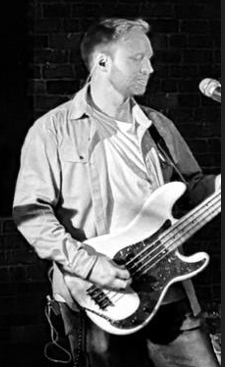
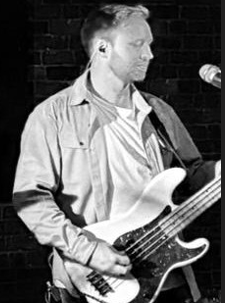
Add band progile section to homepage (WIP)

diff --git a/index.html b/index.html
@@ -138,39 +138,47 @@
         </section>
         
         <!-- Band member profile section -->
-       
+
         <section id="band-profile" class="container-fluid">
-            <div class="row">
-                <div class="col-12">
-                    <h2>The band</h2>
+            <div class="col-12">
+                <h2>The band</h2>
+            </div>
+            <div class="row g-4 bg-black px-3 py-3">
+
+                <!-- Chris -->
+                <div class="card" style="width: 20rem;">
+                    <img src="./assets/images/Chris.png" alt="Chris singing on stage" class="img-fluid mb-1 mt-3">
+                    <div class="card-body">
+                        <h3>Chris Morley</h3>
+                        <p>Vocals & Guitar</p>
+                    </div>
                 </div>
-                <div class="col-6">
-                    <img src="./assets/images/Chris.png" alt="Chris singing on stage">
+                    
+                <!-- Gary -->
+                <div class="card" style="width: 18rem;">
+                    <img src="./assets/images/Gary.png" alt="Gary playing guitar on stage" class="img-fluid mb-1 mt-3">
+                    <div class="card-body">
+                        <h3>Gary Stone</h3>
+                        <p>Vocals & Guitar</p>
+                    </div>
                 </div>
-                <div class="col-6">
-                    <h3>Chris Morley</h3>
-                    <p>Vocals / Guitar</p>
+
+                <!-- Callum -->
+                <div class="card" style="width: 18rem;">
+                    <img src="./assets/images/Callum-bw.png" alt="Callum playing bass" class="img-fluid mb-1 mt-3">
+                    <div class="card-body">
+                        <h3>Callum Aves</h3>
+                        <p>Vocals & Bass Guitar</p>
+                    </div>
                 </div>
-                <div class="col-6">
-                    <img src="./assets/images/Gary.png" alt="gary playing guitar on stage">
-                </div>
-                <div class="col-6">
-                    <h3>Gary Stone</h3>
-                    <p>Vocals / Guitar</p>
-                </div>
-                <div class="col-6">
-                    <img src="./assets/images/Callum-bw.png" alt="Callum playing bass">
-                </div>
-                <div class="col-6">
-                    <h3>Callum Aves</h3>
-                    <p>Vocals / Bass Guitar</p>
-                </div>
-                <div class="col-6">
-                    <img src="./assets/images/Rhys-bw.png" alt="Rhys playing drums">
-                </div>
-                <div class="col-6">
-                    <h3>Rhys Best</h3>
-                    <p>Drums</p>
+
+                <!-- Rhys -->
+                <div class="card" style="width: 18rem;">
+                    <img src="./assets/images/Rhys-bw.png" alt="Rhys playing drums" class="img-fluid mb-1 mt-3">
+                    <div class="card-body">
+                        <h3>Rhys Best</h3>
+                        <p>Drums</p>
+                    </div>
                 </div>
             </div>
         </section>

diff --git a/assets/CSS/style.css b/assets/CSS/style.css
@@ -174,8 +174,8 @@ header {
 }
 
 #services-header {
-  padding-left: 20px;
-  margin: 10px;
+
+  margin-left: 20px;
 }
 
 #services-header > h2 {
@@ -225,6 +225,22 @@ header {
 .info p {
   color: #000000;
 }
+
+/* Band profile */
+
+#band-profile .card h3 {
+  font-family: var(--secondary-font);
+  font-size: 24px;
+}
+
+#band-profile .card p {
+  font-family: var(--primary-font);
+  font-size: 14px;
+  color: #000000;
+}
+
+
+
 
 /* Footer */
 footer {
